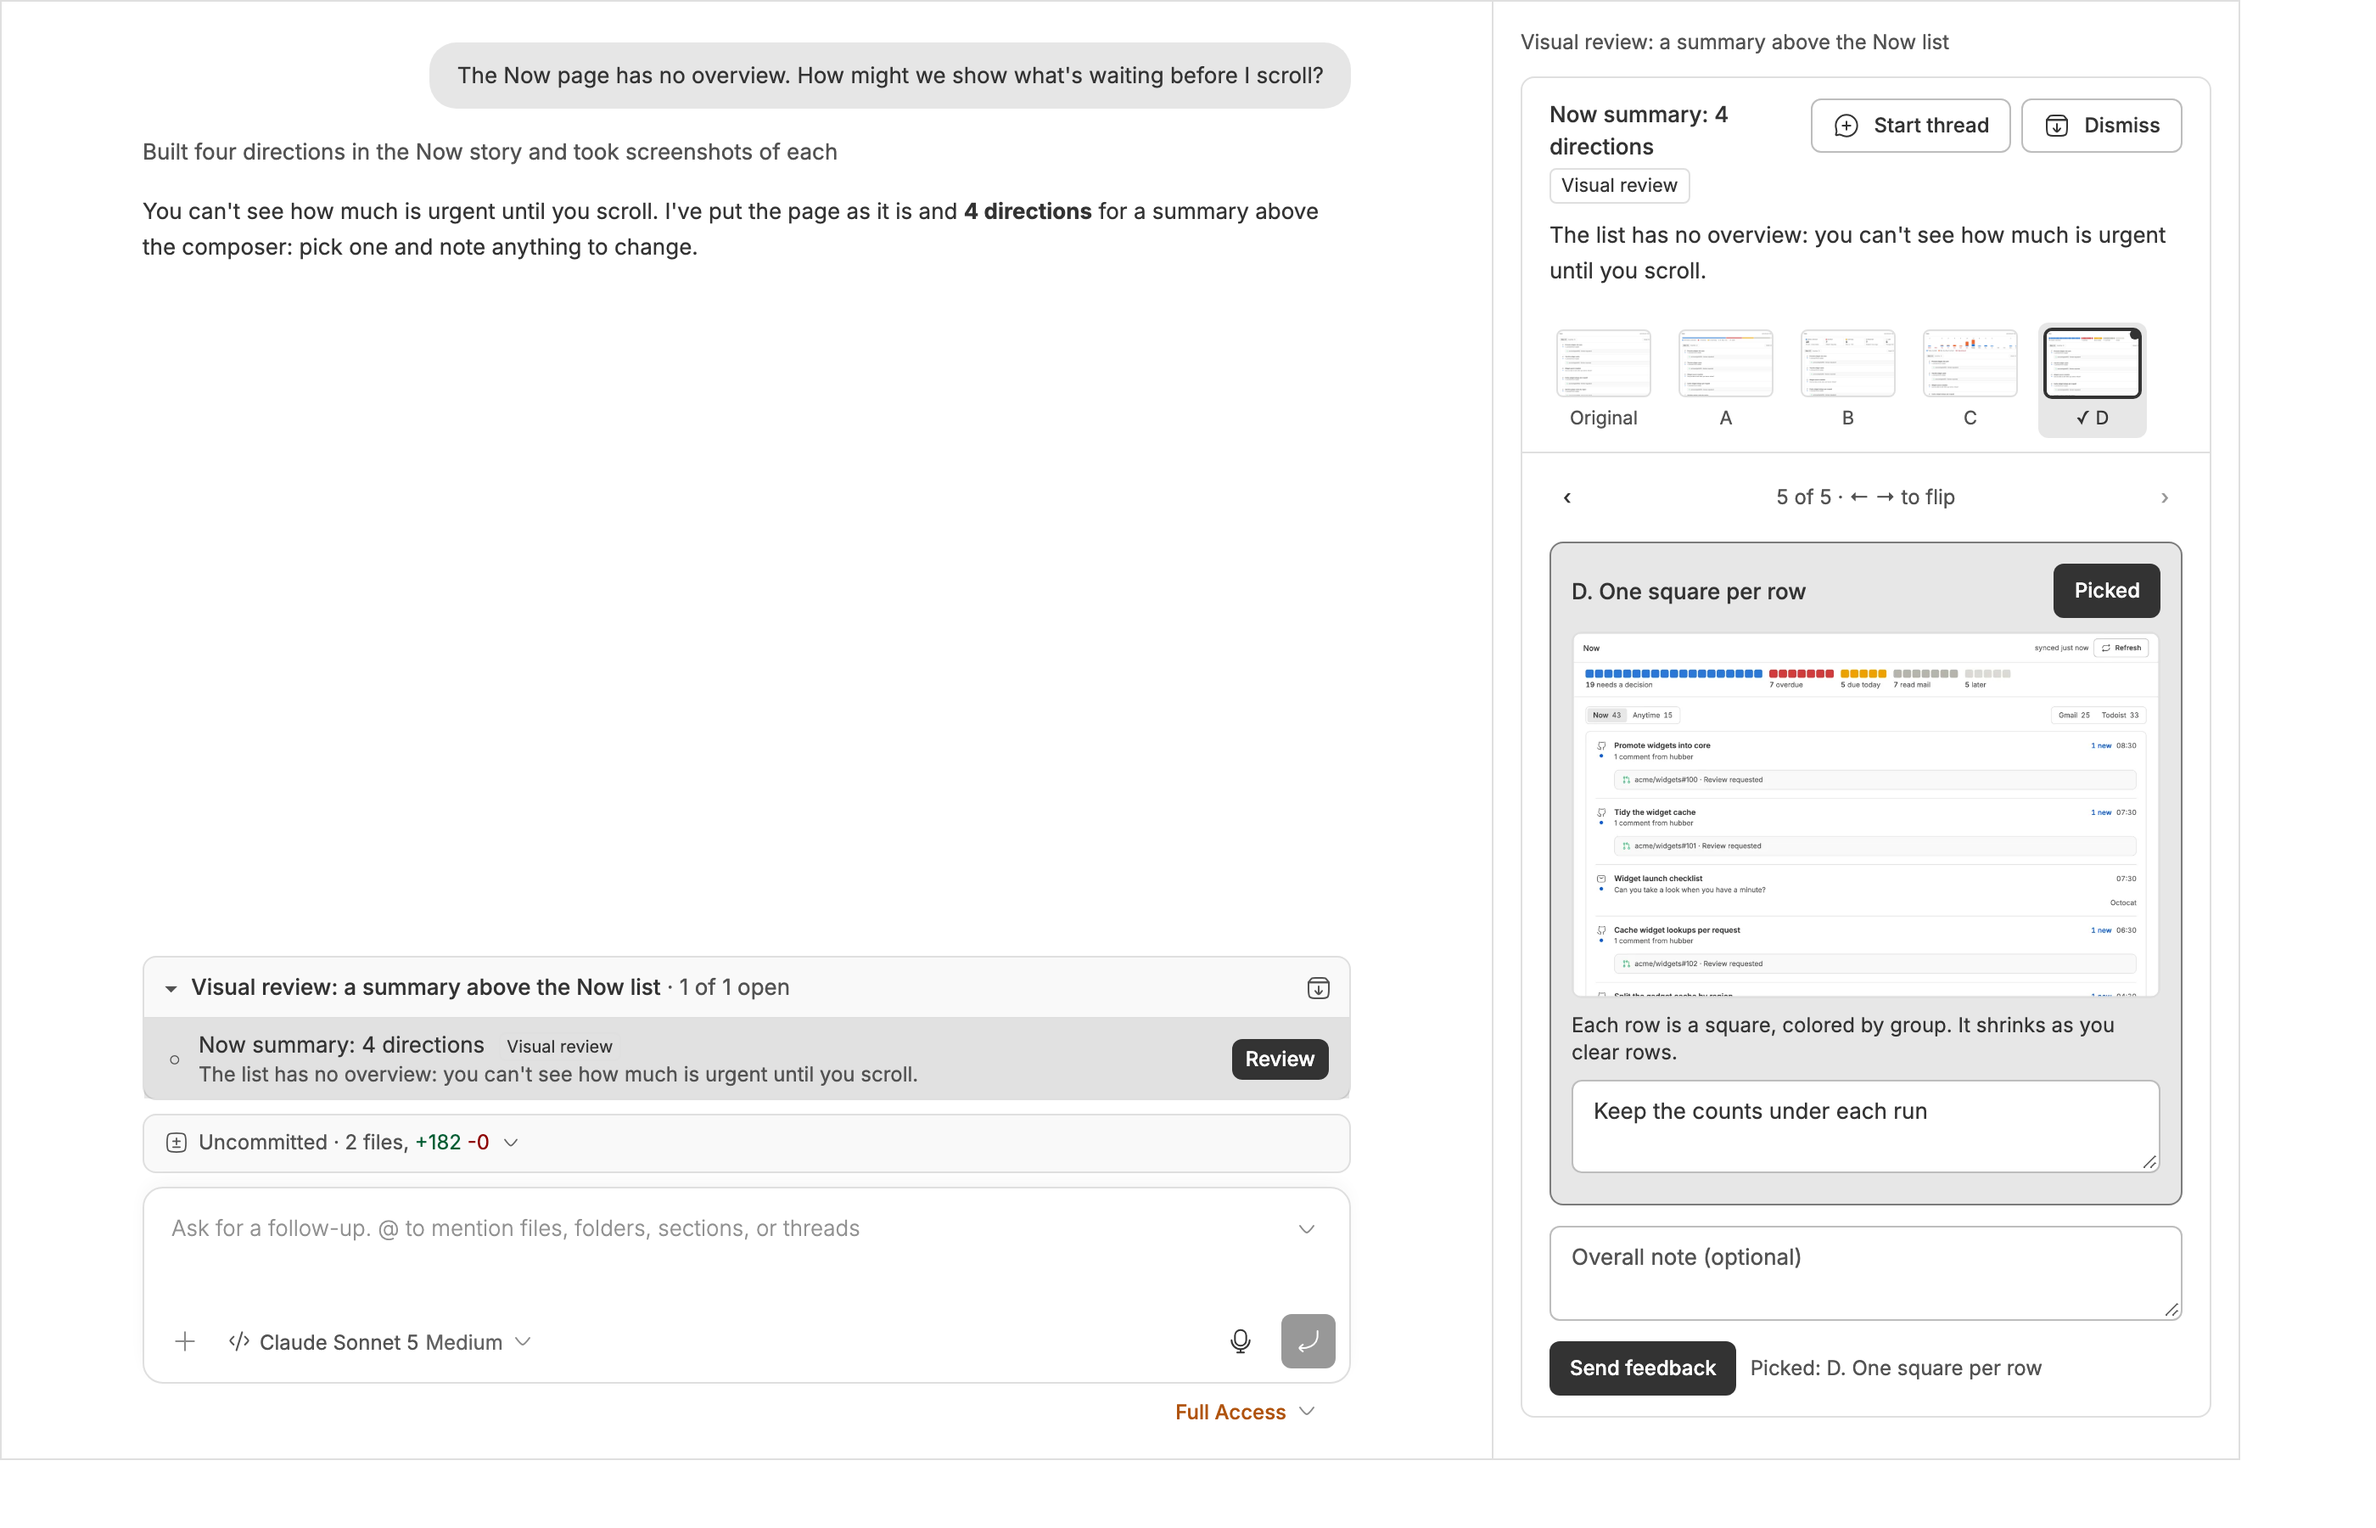
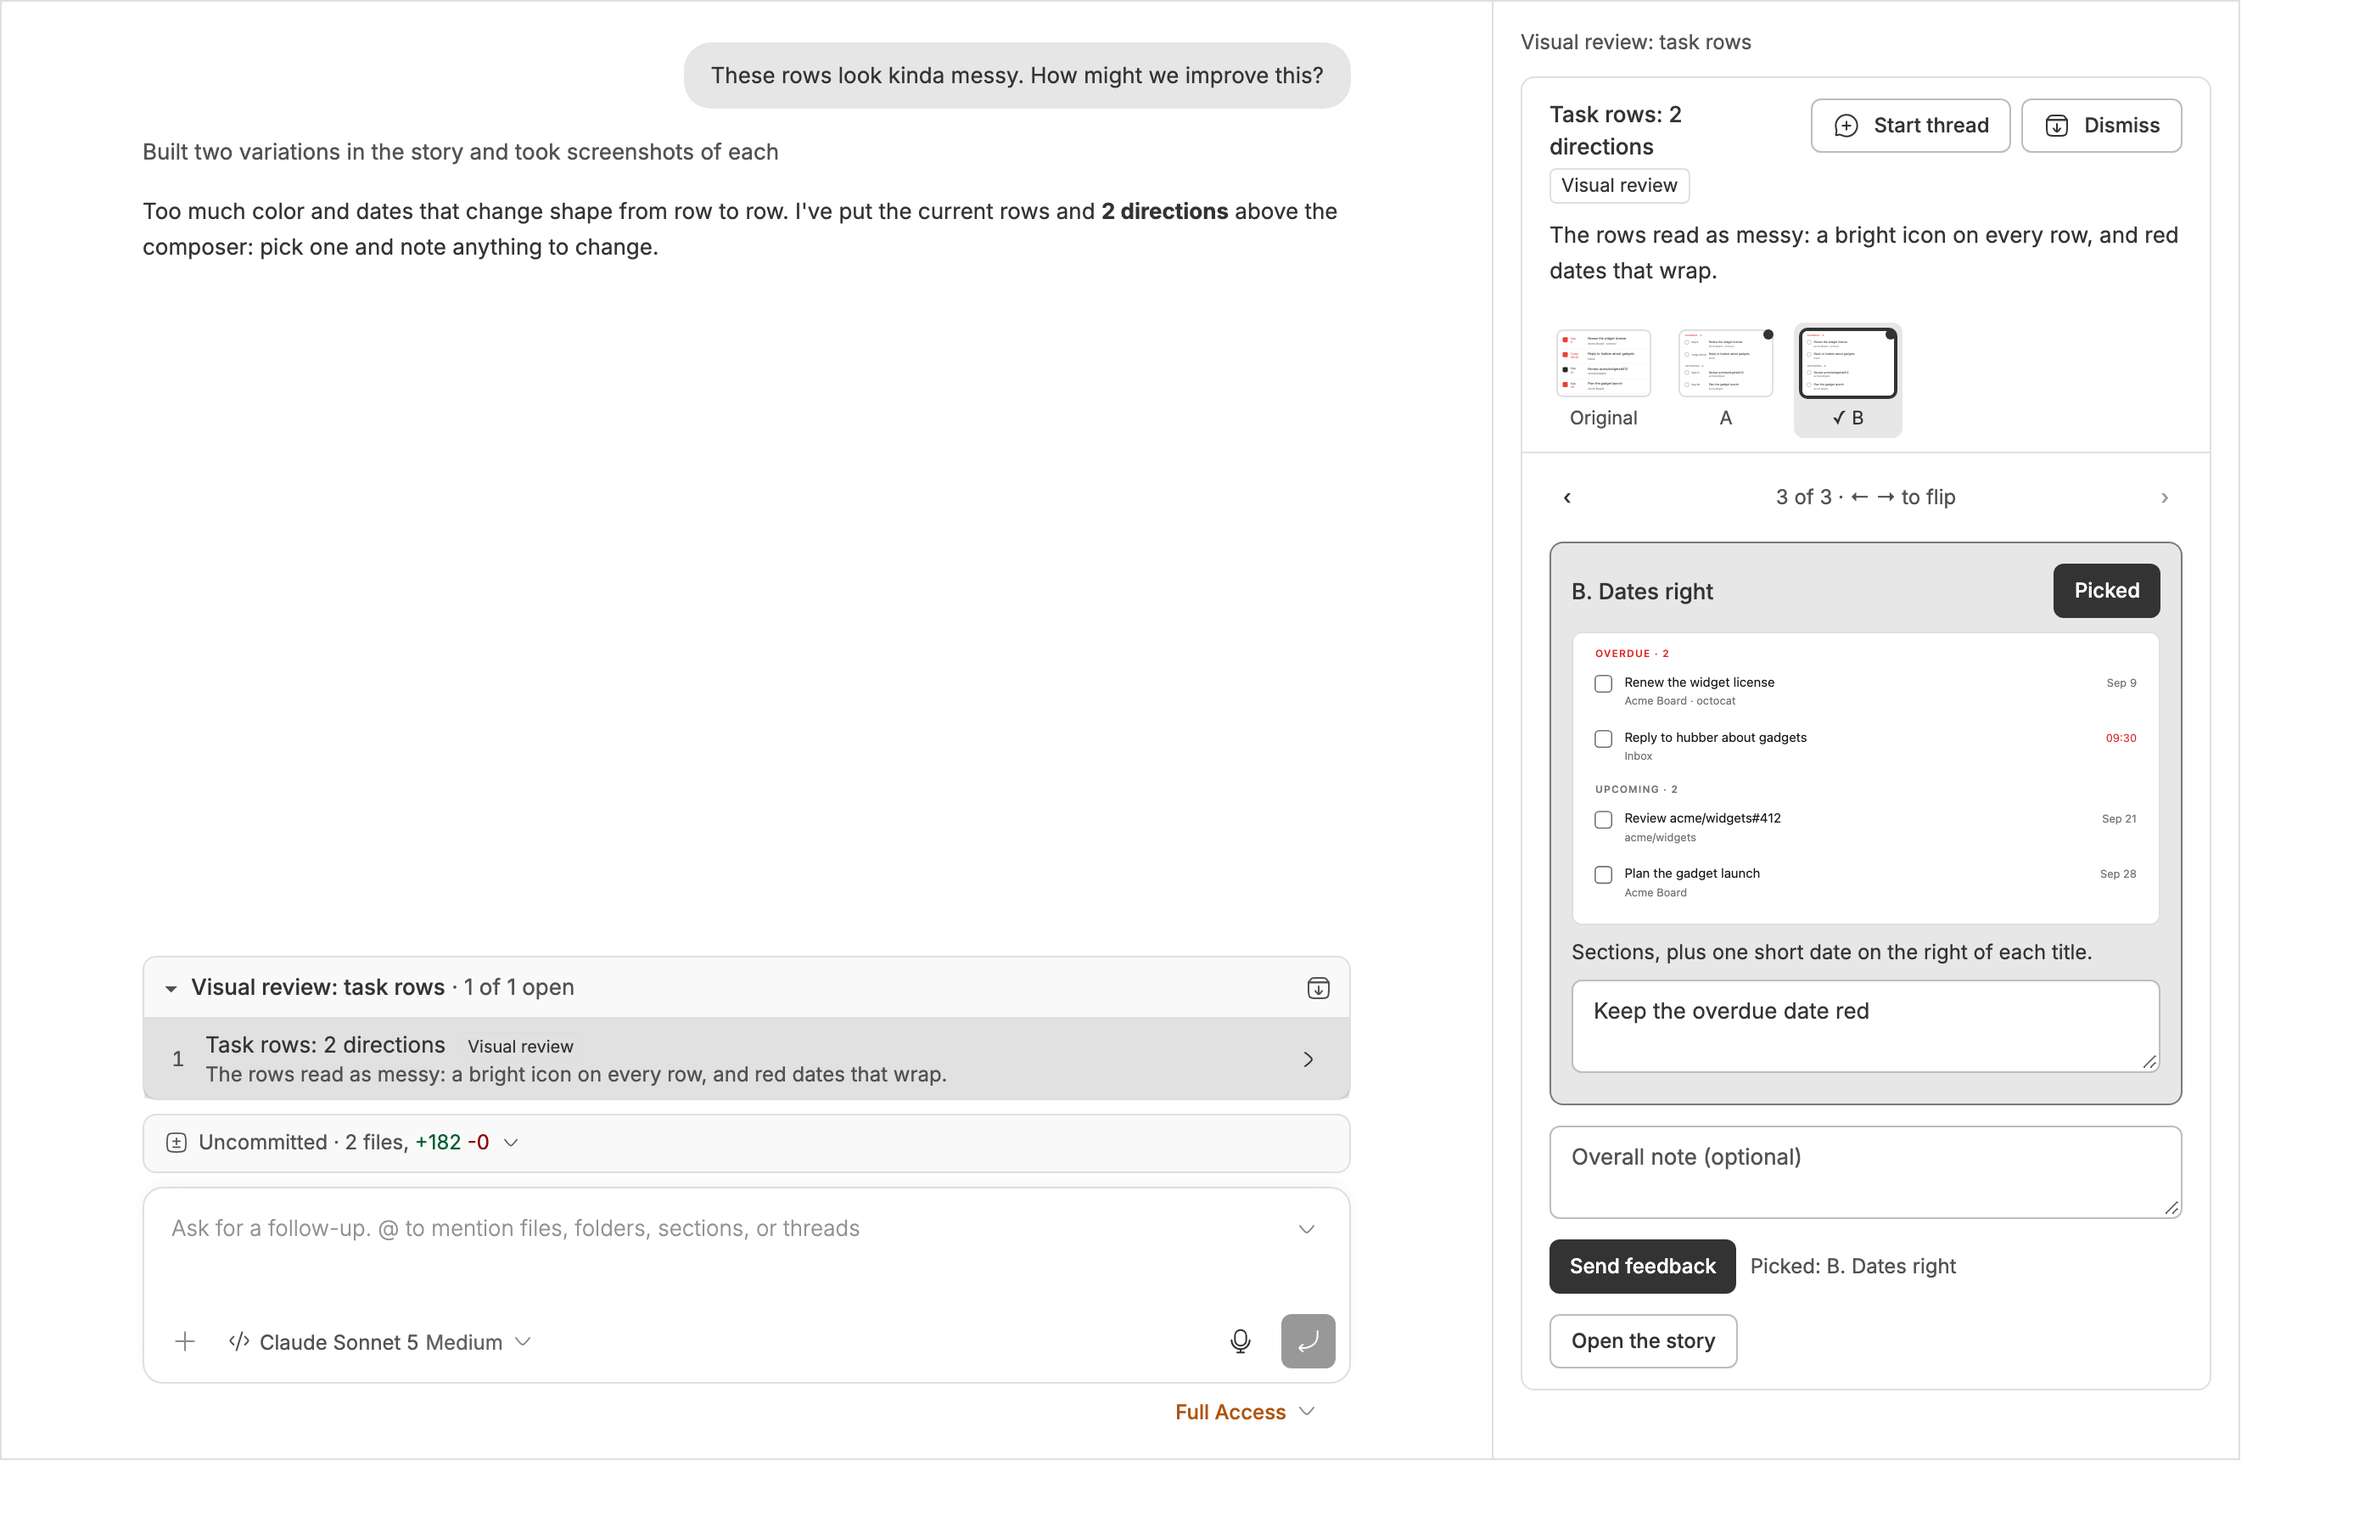
Update plugin entry: impromptu-ui

diff --git a/overview/impromptu-ui.md b/overview/impromptu-ui.md
@@ -1,12 +1,12 @@
-## What you get
+## With Impromptu UI, you can
 
-- Rows above the composer, one per item an agent wants you to act on, such as issues to triage or a Dependabot pull request to merge.
-- A side panel for each item, with its details, a draft you can edit, and buttons that post the draft, start a thread, run a command once you confirm it, or open a link.
-- A film strip for picking a design: screenshots of the original and its alternatives, a note on each, and **Send feedback**, which sends your pick and notes to the thread.
+- **Triage your milestone** without getting lost in paragraphs of feedback. Each recommendation becomes a row with a drafted comment and buttons to post it, post and close, or start a thread.
+- **Create several PRs at once** without juggling threads. Each fix waits on its own card, with its diff and PR description, until you click **Commit, push, and open PR**.
+- **Find the design you want** by reacting to variations instead of describing it up front. Pick one from a film strip, or leave notes for the next round.
 
 ## How it works
 
-A skill writes its results as a view file and publishes it from the thread. Done and dismissed items sink to the bottom, and the agent reads back what you did. Views are stored in the plugin's own database on this machine.
+Impromptu UI gives your agent a toolkit for generating interfaces on the fly. A skill publishes its results as numbered rows above the composer. Click one to open its card in the side panel, with its details, any diff, a draft you can edit, and the buttons that act on it. The agent reads back what you did. Views are stored in the plugin's own database on this machine.
 
 ## For agents
 
